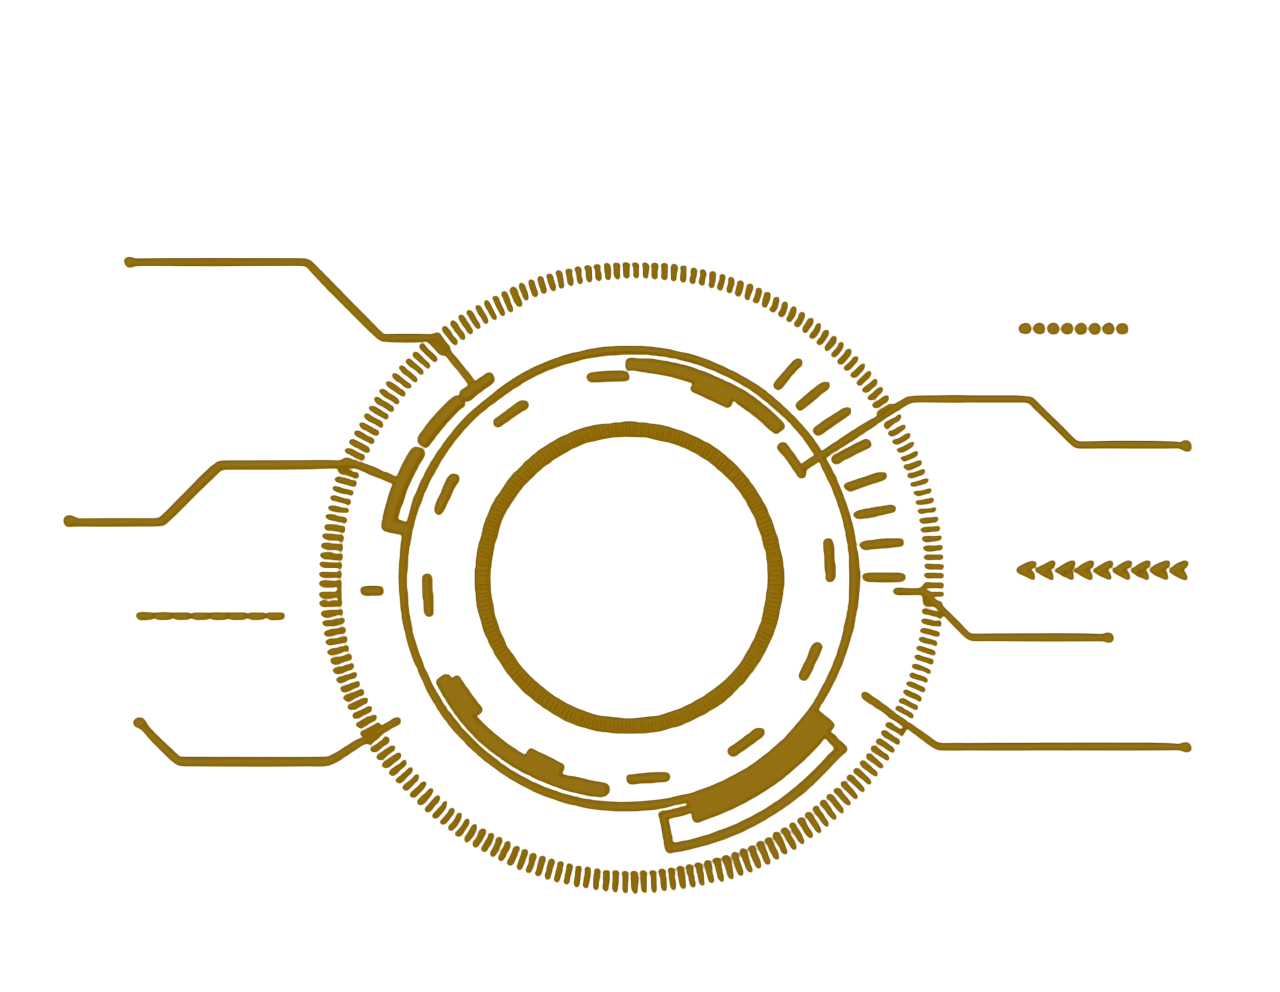
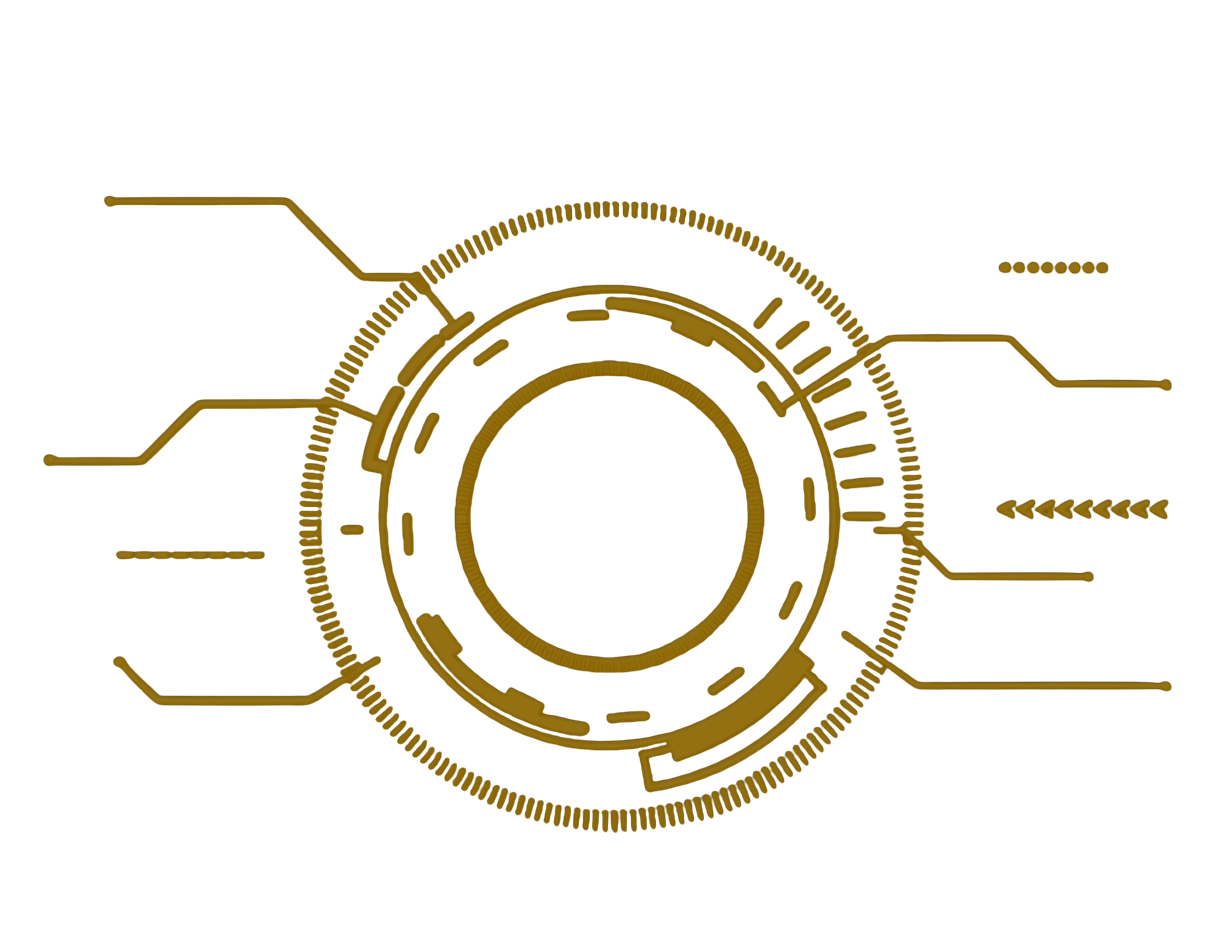
Add responsive background

diff --git a/src/components/Neurobase.jsx b/src/components/Neurobase.jsx
@@ -48,6 +48,8 @@ export default function Neurobase() {
   const [notificationMessage, setNotificationMessage] = useState("");
   const [progressValue, setProgressValue] = useState(35); // Initial value at 35%
   const [isWebChannelReady, setIsWebChannelReady] = useState(false);
+  const [backgroundScale, setBackgroundScale] = useState(1);
+  const [isZooming, setIsZooming] = useState(false);
 
   // Khởi tạo WebChannel khi component mount
   useEffect(() => {
@@ -258,6 +260,23 @@ export default function Neurobase() {
     );
   };
 
+  // Handle background zoom with mouse wheel
+  const handleWheel = useCallback((e) => {
+    e.preventDefault();
+    
+    if (isZooming) return; // Prevent rapid zooming
+    
+    setIsZooming(true);
+    
+    const delta = e.deltaY > 0 ? -0.1 : 0.1;
+    const newScale = Math.max(0.5, Math.min(3.0, backgroundScale + delta));
+    
+    setBackgroundScale(newScale);
+    
+    // Reset zooming flag after a short delay
+    setTimeout(() => setIsZooming(false), 100);
+  }, [backgroundScale, isZooming]);
+
   // Responsive text styles helper
   const getResponsiveTextStyle = (baseSize = 23) => ({
     fontFamily: 'Open Sans',
@@ -308,10 +327,23 @@ export default function Neurobase() {
   }
 
   return (
-    <div className="neurobase-root" style={getThemeStyles()} data-theme={currentMode}>
+    <div 
+      className="neurobase-root" 
+      style={getThemeStyles()} 
+      data-theme={currentMode}
+      onWheel={handleWheel}
+    >
       <div className="neurobase-bg" />
       <div className="neurobase-image-bg">
-        <img src={backgroundImg} alt="background" />
+        <img 
+          src={backgroundImg} 
+          alt="background" 
+          style={{
+            transform: `scale(${backgroundScale})`,
+            transformOrigin: 'center center',
+            transition: 'transform 0.1s ease-out'
+          }}
+        />
       </div>
       <div className="neurobase-logo">
         <div style={{

diff --git a/src/components/Neurobase.css b/src/components/Neurobase.css
@@ -5,10 +5,29 @@
   left: 0;
   top: 0;
   overflow: hidden;
-  background: url(../assets/background.png);
+  background: url(../assets/background1.png);
   background-size: cover;
   background-position: center;
   background-repeat: no-repeat;
+  background-attachment: fixed;
+  min-height: 100vh;
+  min-width: 100vw;
+}
+
+/* Ensure background scales properly on all devices */
+@media (max-width: 768px) {
+  .neurobase-root {
+    background-size: cover;
+    background-position: center;
+    background-attachment: scroll;
+  }
+}
+
+@media (max-width: 480px) {
+  .neurobase-root {
+    background-size: cover;
+    background-position: center;
+  }
 }
 
 .neurobase-bg {
@@ -30,14 +49,46 @@
   display: flex;
   align-items: center;
   justify-content: center;
+  overflow: hidden;
 }
 
 .neurobase-image-bg img {
   width: 100%;
   height: 100%;
   object-fit: cover;
+  object-position: center;
   opacity: 1;
   transform: rotate(0deg);
+  min-width: 100%;
+  min-height: 100%;
+  max-width: none;
+  max-height: none;
+  transform-origin: center center;
+  will-change: transform;
+  backface-visibility: hidden;
+}
+
+/* Ensure background image scales properly on all screen sizes */
+@media (max-width: 768px) {
+  .neurobase-image-bg img {
+    object-fit: cover;
+    object-position: center;
+  }
+}
+
+@media (max-width: 480px) {
+  .neurobase-image-bg img {
+    object-fit: cover;
+    object-position: center;
+  }
+}
+
+/* Landscape orientation support for background */
+@media (max-height: 600px) and (orientation: landscape) {
+  .neurobase-image-bg img {
+    object-fit: cover;
+    object-position: center;
+  }
 }
 
 .neurobase-logo {
@@ -218,6 +269,12 @@
     font-size: 42px;
     width: 260px;
     left: calc(50% - 260px/2 + 0.5px);
+  }
+  
+  /* Ensure background scales properly */
+  .neurobase-root {
+    background-size: cover;
+    background-position: center;
   }
 }
 
